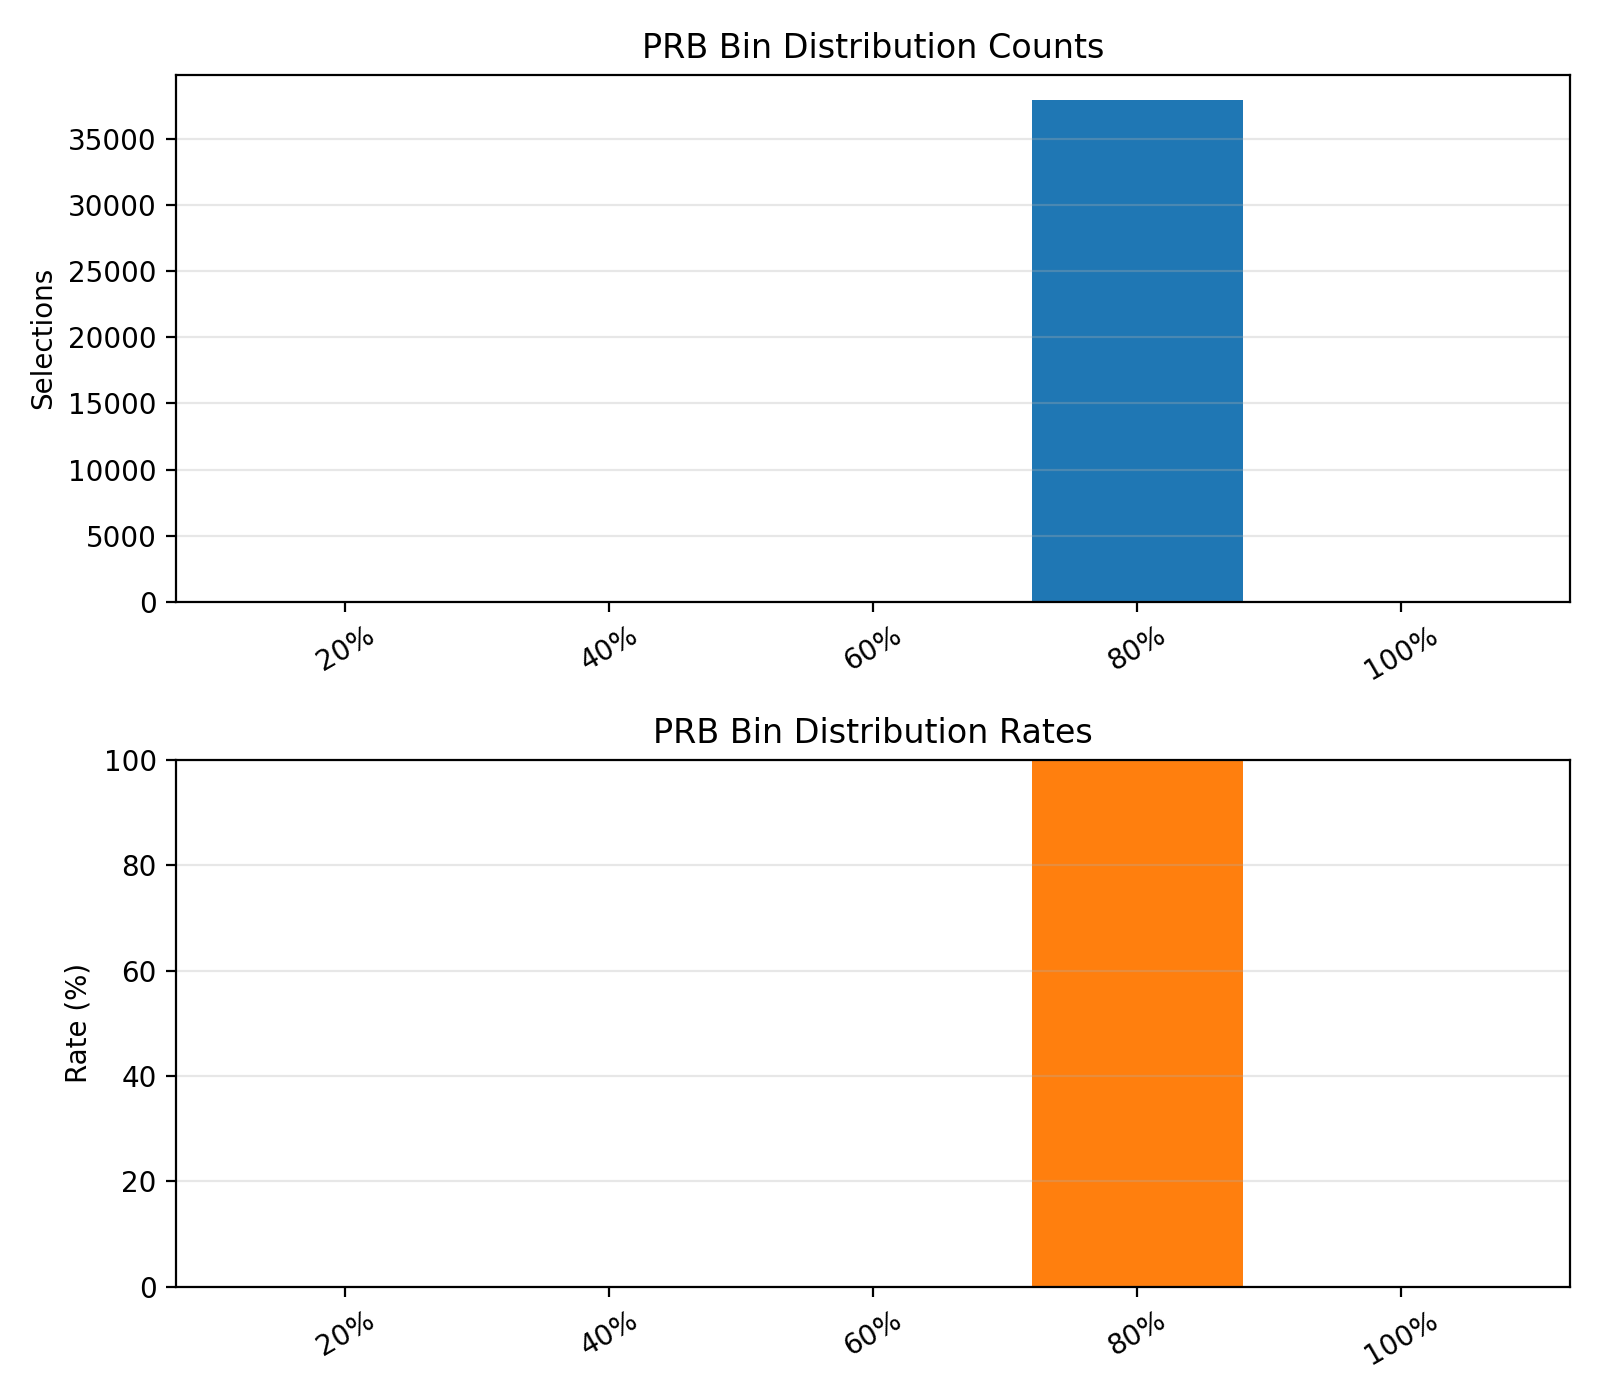
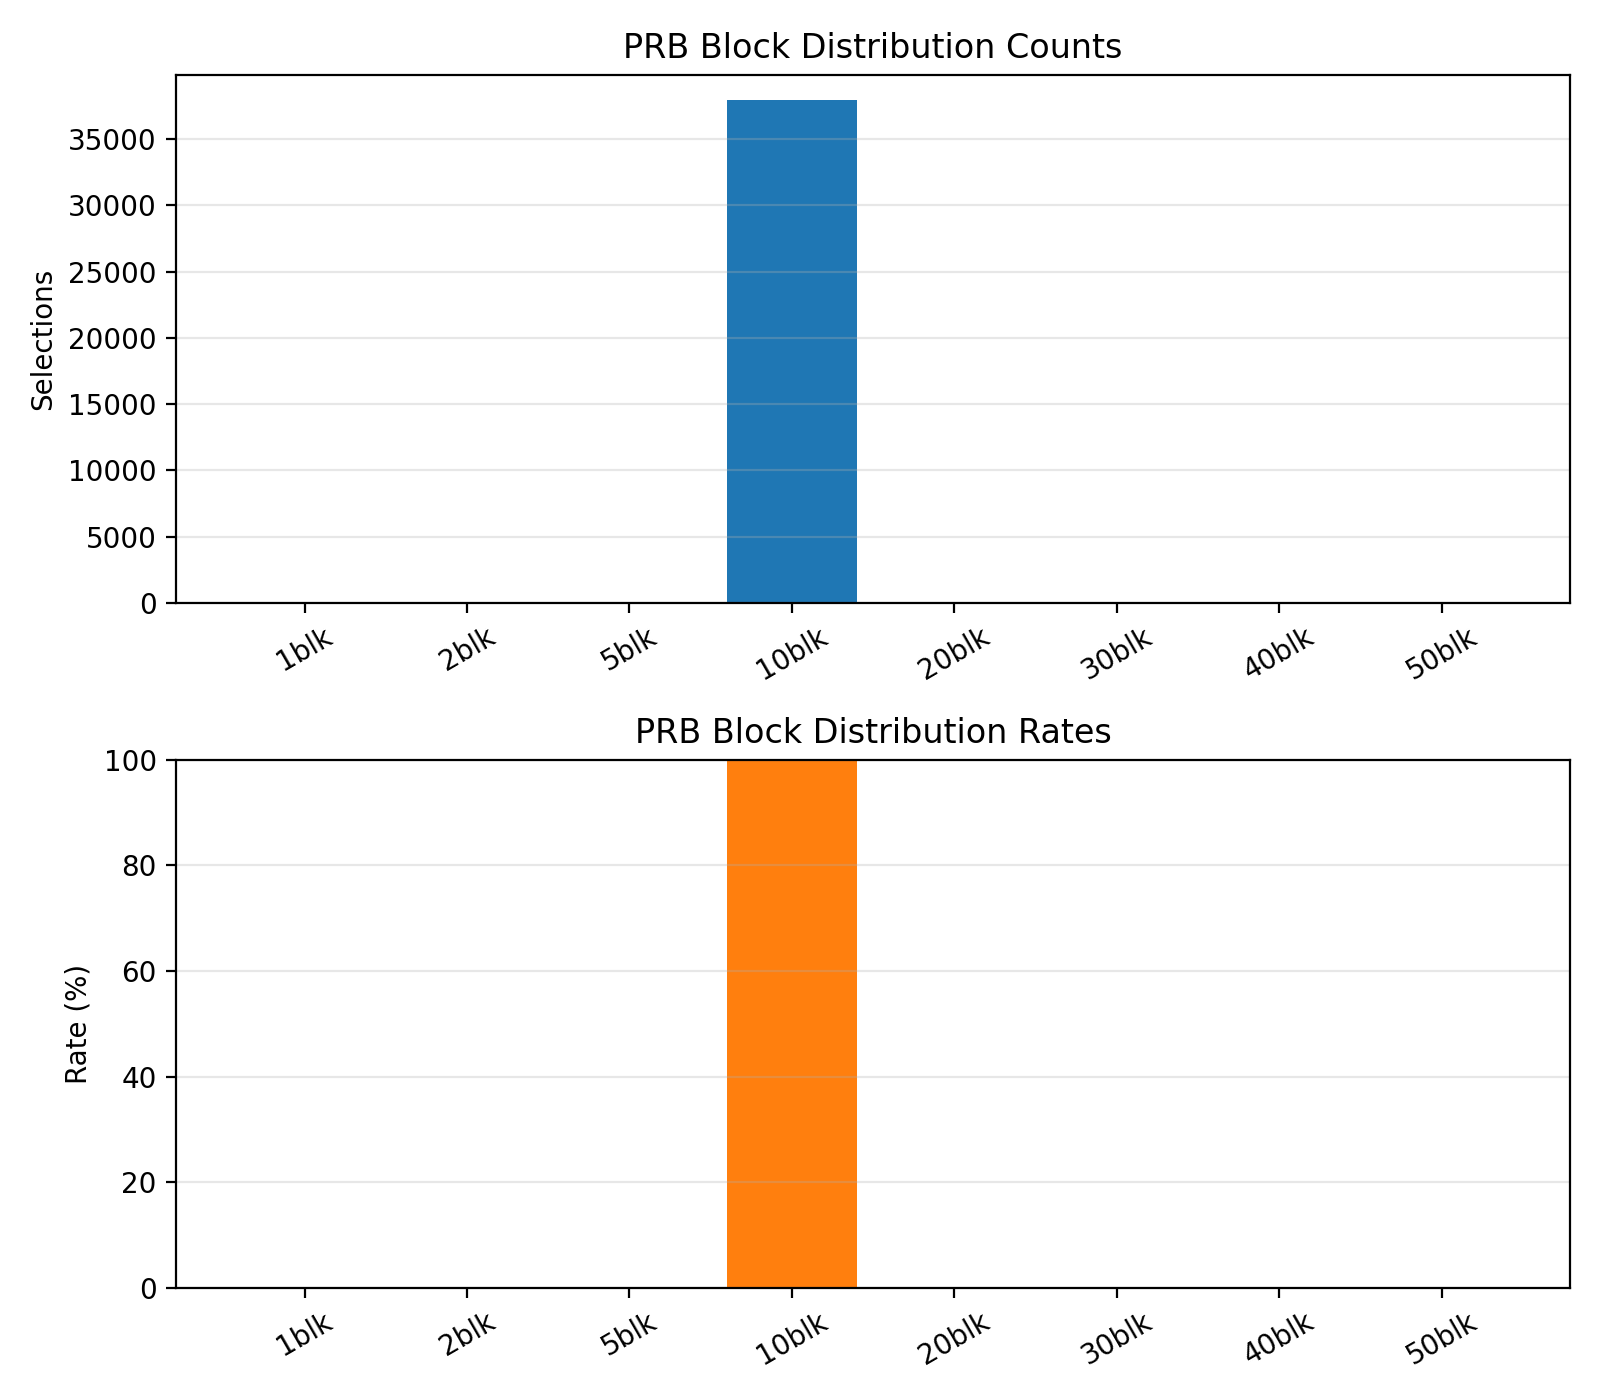
优化5.3fixedprb

diff --git a/EE5003_Report/contents/result.tex b/EE5003_Report/contents/result.tex
@@ -256,28 +256,30 @@ The device-count study therefore suggests that MAPPO remains effective within th
 \subsection{Ablation Study of MAPPO}
 \label{subsec:mappo-ablation}
 
-Two controlled ablations were conducted under the same 40-episode, 30-minute, 160-device setting as the full MAPPO run. \textbf{NoEmbedding} removes the 16-dimensional agent embedding while keeping the same dual-head actor and centralized critic. \textbf{FixedPRB} keeps the offloading policy but forces every non-local transfer to use the same \(80\%\) PRB request, thereby disabling adaptive radio allocation. These two variants isolate two different questions: whether explicit agent identity matters, and whether adaptive PRB control matters.
+Two controlled ablations were conducted under the same 40-episode, 30-minute, 160-device setting as the full MAPPO run. \textbf{NoEmbedding} removes the 16-dimensional agent embedding while keeping the same dual-head actor and centralized critic. \textbf{FixedPRB} keeps the destination policy trainable but disables adaptive radio allocation by clamping every non-local action to the fourth PRB bin (index 3), which under the default \(B_{\max}=50\) corresponds to a fixed reservation of \(10\) blocks, or \(20\%\) of the per-task PRB cap; local execution still forces PRB \(=0\). These two variants isolate two different questions: whether explicit agent identity matters, and whether adaptive PRB control matters.
 
 \begin{table}[htbp]
     \centering
-    \small
-    \begin{tabular}{l|ccccc}
+    \footnotesize
+    \setlength{\tabcolsep}{4pt}
+    \renewcommand{\arraystretch}{1.12}
+    \begin{tabularx}{\textwidth}{@{}l>{\raggedright\arraybackslash}Xrrrrr@{}}
         \hline
-        \textbf{Variant} & Mean Success (\%) & Std. Success & Mean Total Time (s) & Mean Energy (W) & Mean Delay Failures \\
+        \textbf{Variant} & \textbf{Design Change} & \textbf{Success (\%)} & \textbf{Std.} & \textbf{Total Time (s)} & \textbf{Energy (W)} & \textbf{Delay Failures} \\
         \hline
-        MAPPO & 99.9237 & 0.0238 & 4.5284 & 227.6360 & 48.00 \\
-        NoEmbedding & 99.8148 & 0.0245 & 4.4991 & 227.7301 & 123.00 \\
-        FixedPRB & 92.3822 & 1.0314 & 4.7047 & 309.2645 & 5127.67 \\
+        MAPPO & Full model with adaptive destination and PRB heads. & 99.9237 & 0.0238 & 4.5284 & 227.6360 & 48.00 \\
+        NoEmbedding & Remove the 16-D agent embedding; keep the destination head, PRB head, and centralized critic unchanged. & 99.8148 & 0.0245 & 4.4991 & 227.7301 & 123.00 \\
+        FixedPRB & Keep destination learning but fix every offloaded action to PRB bin 3 (\(10\) blocks \(=20\%\) of \(B_{\max}\)). & 92.3822 & 1.0314 & 4.7047 & 309.2645 & 5127.67 \\
         \hline
-    \end{tabular}
-    \caption{Three-seed evaluation summary of the MAPPO ablations.}
+    \end{tabularx}
+    \caption{Three-seed evaluation summary of the MAPPO ablations under the standard 160-device setting.}
     \label{tab:mappo-ablation-summary}
 \end{table}
 
 \paragraph{NoEmbedding: controlled but measurable degradation.}
 The NoEmbedding model still converges to a strong scheduler, but it exhibits a consistent reliability penalty relative to the full MAPPO policy. During training, success rises from \(57.44\%\) in episode 1 to \(99.69\%\) in episode 40, which is only slightly below the full model's \(99.91\%\). The difference appears mainly in the tail of the failure distribution rather than in coarse routing behavior: the three-seed mean success drops from \(99.9237\%\) to \(99.8148\%\), while mean delay failures increase from \(48\) to \(123\). The mean total time is slightly lower at \(4.4991\,\mathrm{s}\), but this marginal latency gain does not compensate for worse deadline compliance. The mean simulator wall time also drops from \(227.74\,\mathrm{s}\) per episode to \(202.86\,\mathrm{s}\), so the ablation is cheaper to train, but it is not preferable when deadline compliance is the primary objective.
 
-The representative seed-9001 charts in \Figref{fig:noembedding-summary-reward} and \Figref{fig:noembedding-actions} show why the degradation is limited rather than severe. The run-summary chart is still dominated by the success bar, and the reward EMA remains high and positive across most of the episode. However, the negative reward spikes are more frequent and the EMA dips more noticeably than in the full MAPPO case, indicating less stable local decision quality. The destination-distribution chart remains almost unchanged, with \(51.78\%\) of tasks still sent to the cloud and \(19.83\%\) kept local. The main behavioral shift appears in the PRB chart: compared with the full MAPPO policy, NoEmbedding moves probability mass from the \(80\%\) bin to the \(100\%\) bin, with the latter rising to \(16.94\%\). This suggests that once agent identity is removed, the shared policy compensates by using slightly more aggressive uplink reservation on difficult decisions.
+The representative seed-9001 charts in \Figref{fig:noembedding-summary-reward} and \Figref{fig:noembedding-actions} show why the degradation is limited rather than severe. The run-summary chart is still dominated by the success bar, and the reward EMA remains high and positive across most of the episode. However, the negative reward spikes are more frequent and the EMA dips more noticeably than in the full MAPPO case, indicating less stable local decision quality. The destination-distribution chart remains almost unchanged, with \(51.78\%\) of tasks still sent to the cloud and \(19.83\%\) kept local. The main behavioral shift appears in the PRB chart: the policy still places most offloaded tasks in the \(1\)-block bin, but compared with the full MAPPO policy it shifts some of the remaining mass from \(10\) blocks to \(20\) blocks, with the \(20\)-block bin rising to \(16.94\%\). This suggests that once agent identity is removed, the shared policy compensates by using slightly more aggressive uplink reservation on difficult decisions.
 
 \begin{figure}[htbp]
     \centering
@@ -312,7 +314,7 @@ The representative seed-9001 charts in \Figref{fig:noembedding-summary-reward} a
 \paragraph{FixedPRB: structural failure of the joint scheduler.}
 The FixedPRB ablation changes the outcome qualitatively. Training improves only from \(55.90\%\) to \(91.52\%\) success across the 40 episodes and plateaus there rather than entering the near-perfect regime. In evaluation, mean success collapses to \(92.3822\%\), mean energy jumps to \(309.2645\,\mathrm{W}\), and mean delay failures rise to \(5127.67\). Unlike NoEmbedding, this is not a small regularization effect; it is a direct loss of scheduling capability. The simulator also becomes much faster to run at \(145.41\,\mathrm{s}\) per episode on average, but this speedup is associated with a simpler yet substantially poorer operating regime.
 
-The representative seed-9001 charts in \Figref{fig:fixedprb-summary-reward} and \Figref{fig:fixedprb-actions} reveal the mechanism. The run-summary chart is dominated by the failed-delay bar, and the reward timeline becomes highly oscillatory with dense negative excursions, showing that bad decisions are frequent throughout the episode rather than confined to a few isolated events. The destination distribution also collapses to a two-way split: \(43.37\%\) local and \(42.29\%\) cloud, with the four edge nodes together receiving only \(14.35\%\) of selections. Most decisively, the PRB distribution degenerates to a single point mass, with \(100\%\) of offloaded tasks using the \(80\%\) bin by construction. This removes the policy's ability to match radio reservation to task urgency and destination quality. The result is a system that underuses edge resources, overconsumes mist energy, and accumulates thousands of deadline misses even though fallback, mobility, and network failures remain at zero.
+The representative seed-9001 charts in \Figref{fig:fixedprb-summary-reward} and \Figref{fig:fixedprb-actions} reveal the mechanism. The run-summary chart is dominated by the failed-delay bar, and the reward timeline becomes highly oscillatory with dense negative excursions, showing that bad decisions are frequent throughout the episode rather than confined to a few isolated events. The destination distribution also collapses to a two-way split: \(43.37\%\) local and \(42.29\%\) cloud, with the four edge nodes together receiving only \(14.35\%\) of selections. Most decisively, the PRB distribution degenerates to a single point mass, with \(100\%\) of offloaded tasks using \(10\) blocks by construction. Read against the full MAPPO seed-9001 distribution, this is a strong restriction: the learned policy normally uses \(1\) block for most offloads and expands to \(10\) or \(20\) blocks only when needed. Fixing every offloaded task at \(10\) blocks therefore creates a systematic mismatch, being too conservative for hard transfers and too wasteful for easy ones. The result is a system that underuses edge resources, overconsumes mist energy, and accumulates thousands of deadline misses even though fallback, mobility, and network failures remain at zero.
 
 \begin{figure}[htbp]
     \centering
@@ -371,7 +373,7 @@ The additional diagnostics in \Figref{fig:ablation-avail-energy} sharpen the con
     \label{fig:ablation-avail-energy}
 \end{figure}
 
-The runtime-level resource dynamics in \Figref{fig:ablation-prb-dynamics} make the contrast between adaptive and fixed PRB allocation visually immediate. The full MAPPO policy maintains a moderate, fluctuating PRB reservation that adapts to instantaneous contention, while the FixedPRB variant shows a rigid, uniformly high allocation pattern that saturates the wireless pool during congestion peaks. The task failure timeline in \Figref{fig:ablation-fail-dynamics} reinforces this: MAPPO's failure curve stays flat near zero, whereas FixedPRB accumulates failures steadily throughout the episode, with visible acceleration during high-traffic windows. These runtime traces confirm that the aggregate metrics in \Tabref{tab:mappo-ablation-summary} are not artifacts of a few bad episodes but reflect a systematic inability of the fixed-radio policy to manage wireless contention.
+The runtime-level resource dynamics in \Figref{fig:ablation-prb-dynamics} make the contrast between adaptive and fixed PRB allocation visually immediate. The full MAPPO policy changes total reserved PRBs through both the number of concurrent uploads and the per-task reservation chosen for each upload. By contrast, the FixedPRB variant can react only through the number of offloaded tasks, because every offloaded transfer always reserves \(10\) blocks. Its block-allocation trace therefore still fluctuates with traffic intensity, but it lacks the per-task radio adaptation that the full model uses to absorb heterogeneous demand. The task failure timeline in \Figref{fig:ablation-fail-dynamics} reinforces this: MAPPO's failure curve stays flat near zero, whereas FixedPRB accumulates failures steadily throughout the episode, with visible acceleration during high-traffic windows. These runtime traces confirm that the aggregate metrics in \Tabref{tab:mappo-ablation-summary} are not artifacts of a few bad episodes but reflect a systematic inability of the fixed-radio policy to manage coupled compute-radio contention.
 
 \begin{figure}[htbp]
     \centering
@@ -384,7 +386,7 @@ The runtime-level resource dynamics in \Figref{fig:ablation-prb-dynamics} make t
         \includegraphics[width=0.47\textwidth]{figures/fixedprb_prb_blocks.png}
         \label{fig:fixedprb-ablation-prb}
     }
-    \caption{Comparison of PRB block allocation dynamics between the full MAPPO policy (adaptive) and the FixedPRB ablation (fixed at 80\%) on seed 9001.}
+    \caption{Comparison of PRB block allocation dynamics between the full MAPPO policy (adaptive) and the FixedPRB ablation (each offloaded task fixed at \(10\) blocks, i.e., \(20\%\) of \(B_{\max}\)) on seed 9001.}
     \label{fig:ablation-prb-dynamics}
 \end{figure}
 
